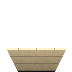
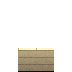
Wall faces meet in clean corners
Front faces were measured perpendicular to each hex edge and clipped to
their own hex, so the faces of conjoined walls met in notches. Each face is
now the hex edge raised straight up by the same height, so neighbouring
faces share one top line, with per-direction shading for clean creases; a
slanted face that turns an inside corner is completed into the neighbouring
wall hex by a new -ext image placed only there. The map preview draws the
same rule in the game's layer order.

Changed region(s): [[0.0833, 0.6667, 0.9444, 1.0]]

diff --git a/production/tools/gen_wall_relief.py b/production/tools/gen_wall_relief.py
@@ -22,9 +22,14 @@ wall. Walls must look like walls and be identified at a glance.
 
 2. Edges (sw/wall-relief-<family>-<dir>.png, utils/hte_terrain.cfg
    SW_WALL_RELIEF), on a wall hex along each edge it shares with floor:
-     s, se, sw  the wall's front face -- a tall, dark vertical face in the
-                family's face material, a bright lip where the top ends and
-                a near-black line at its foot;
+     s, se, sw  the wall's front face: the edge raised straight up by the
+                same height everywhere (2026-10-12: faces measured
+                perpendicular to each edge met in notches at the corners),
+                so the top lines of neighbouring faces join into one line;
+                each direction is shaded a little differently so corners read
+                as creases. A slanted face that turns an inside corner
+                reaches into the neighbouring wall hex: its -ext image is
+                placed only when that neighbour is a wall;
      n, ne, nw  a slightly brighter coping on the top, outlined in near-black.
    Neighbouring walls get no edge between them, so a run of walls is one
    raised mass with a crisp silhouette. (bunker: the castle hexes round a
@@ -179,14 +184,17 @@ FACE = {   # base colour of the vertical face, and its pattern
 }
 
 
-def face_rgb(family: str, t: np.ndarray, seed: int = 5) -> np.ndarray:
-    """Face colour at height t (0 = foot, 1 = top lip)."""
+def face_rgb(family: str, h: np.ndarray, t: np.ndarray, turn: float, seed: int = 5) -> np.ndarray:
+    """Face colour at height h px above the foot (t = h / face height, 0 at
+    the foot, 1 at the lip). turn: brightness of this face's direction."""
     base, pattern = FACE[family]
-    shade = 0.78 + 0.32 * t           # light falls from above: brighter near the top
+    shade = (0.78 + 0.32 * t) * turn     # light falls from above: brighter near the top
+    hi = np.floor(h).astype(int)
     if pattern == "ribs":
         shade = shade * np.where(XS % 6 == 0, 0.7, np.where(XS % 6 == 1, 1.15, 1.0))
     elif pattern == "courses":
-        shade = shade * np.where((YS % 7) == 0, 0.8, 1.0)
+        # Courses run parallel to the foot, so they continue round corners.
+        shade = shade * np.where(hi % 7 == 0, 0.8, 1.0)
     elif pattern == "planks":
         shade = shade * np.where((XS % 9) == 0, 0.65, 1.0)
     else:
@@ -195,23 +203,57 @@ def face_rgb(family: str, t: np.ndarray, seed: int = 5) -> np.ndarray:
     return colour(base, shade)
 
 
+# The foot of each front face: the hex edge as y = f(x) over its x range.
+FOOT = {
+    "s": (18, 54, lambda x: np.full_like(x, 72.0)),
+    "se": (54, 72, lambda x: 72.0 - 2.0 * (x - 54)),
+    "sw": (0, 18, lambda x: 36.0 + 2.0 * x),
+}
+# Each face direction catches the light differently, so where two faces meet
+# at an angle the corner reads as a clean crease.
+TURN = {"s": 1.0, "se": 0.8, "sw": 0.92}
+
+
+def front_face(family: str, direction: str, height: float = 1.0, extend: bool = False) -> Image.Image:
+    """The wall's front face along a south edge: the edge raised straight up
+    by the face height (screen pixels), the same for every face, so the top
+    lines of neighbouring faces join into one line and corners meet cleanly.
+
+    A slanted face (se, sw) reaches past its own hex at the upper end, into
+    the hex to the north-east or north-west. extend=True draws that part too
+    (sw/wall-relief-<family>-<dir>-ext.png, placed only when that neighbour is
+    also a wall: the inside corner where the wall turns); otherwise the face
+    is clipped to its own hex."""
+    face_h = max(5, round(SOUTH["s"] * height))
+    x0, x1, foot = FOOT[direction]
+    xc = XS + 0.5
+    yc = YS + 0.5
+    within = (xc >= x0) & (xc <= x1)
+    y_edge = foot(np.clip(xc, x0, x1))
+    h = y_edge - yc                       # height above the foot
+    region = within & (h > 0) & (h <= face_h)
+    if not extend:
+        region &= hex_mask()
+    t = np.clip(h / face_h, 0, 1)
+    rgb = face_rgb(family, h, t, TURN[direction])
+    lip = within & (h > face_h) & (h <= face_h + 1.8)
+    if not extend:
+        lip &= hex_mask()
+    top = TOPS.get(family, TOPS["bulkhead"])(117)
+    rgb[lip] = np.minimum(255, top[lip] * 1.15 + 10)
+    rgb[region & (h <= 1.2)] = (16, 16, 18)
+    out = np.zeros((S, S, 4))
+    out[..., :3] = rgb
+    out[..., 3] = np.where(region | lip, 255, 0)
+    return Image.fromarray(out.astype(np.uint8), "RGBA")
+
+
 def relief(family: str, direction: str, height: float = 1.0) -> Image.Image:
     inside = hex_mask()
     d = edge_distance(direction)
     out = np.zeros((S, S, 4))
     if direction in SOUTH:
-        depth = max(5, round(SOUTH[direction] * height))
-        t = np.clip(d / depth, 0, 1)
-        rgb = face_rgb(family, t)
-        band = inside & (d >= 0) & (d < depth)
-        foot = inside & (d >= 0) & (d < 1.2)
-        lip = inside & (d >= depth - 0.2) & (d < depth + 1.8)
-        # The lip where the top ends: the top's own colour, a little brighter.
-        top = TOPS.get(family, TOPS["bulkhead"])(117)
-        rgb[lip] = np.minimum(255, top[lip] * 1.15 + 10)
-        rgb[foot] = (16, 16, 18)
-        out[..., :3] = rgb
-        out[..., 3] = np.where(band | lip, 255, 0)
+        return front_face(family, direction, height)
     else:
         # The far edge: the top's own colour, a little brighter where the
         # coping catches the light, outlined in near-black.
@@ -246,6 +288,10 @@ def main() -> int:
         for direction in EDGES:
             relief(family, direction, HEIGHT.get(family, 1.0)).save(
                 OUT / f"wall-relief-{family}-{direction}.png", optimize=True)
+            n += 1
+        for direction in ("se", "sw"):
+            front_face(family, direction, HEIGHT.get(family, 1.0), extend=True).save(
+                OUT / f"wall-relief-{family}-{direction}-ext.png", optimize=True)
             n += 1
     for direction in EDGES:
         shadow(direction).save(OUT / f"wall-shadow-{direction}.png", optimize=True)

diff --git a/production/tools/render_map_preview.py b/production/tools/render_map_preview.py
@@ -67,24 +67,35 @@ def draw_relief(img: Image.Image, grid: list[list[str]]) -> None:
         if 0 <= y < len(grid) and 0 <= x < len(grid[y]):
             return grid[y][x].partition("^")[0]
         return None
+    # The game draws all shadows (layer -450), then all faces (-400), then the
+    # inside-corner face extensions (-399), each layer top to bottom.
+    draws = []
     for y, row in enumerate(grid):
         for x in range(len(row)):
             here = base(x, y)
             pos = (54 * x, 72 * y + (36 if x % 2 else 0))
-            for d, (nx, ny) in neighbours(x, y).items():
+            nb = neighbours(x, y)
+            for d, (nx, ny) in nb.items():
                 there = base(nx, ny)
                 if there is None:
                     continue
-                name = None
+                name, layer = None, 0
                 if here in WALLS and there not in WALLS and not there.startswith("X"):
-                    name = f"wall-relief-{WALLS[here]}-{d}"
+                    name, layer = f"wall-relief-{WALLS[here]}-{d}", -400
+                    if d in ("se", "sw"):
+                        corner = base(*nb["ne" if d == "se" else "nw"])
+                        if corner in WALLS:
+                            draws.append((-399, pos[1], pos[0], f"wall-relief-{WALLS[here]}-{d}-ext"))
                 elif here == "Qcb" and there not in ("Qcb", "Qkb"):
-                    name = f"wall-relief-bunker-{d}"
+                    name, layer = f"wall-relief-bunker-{d}", -400
                 elif here not in WALLS and not here.startswith("X") and there in WALLS:
-                    name = f"wall-shadow-{d}"
-                t = tile(f"sw/{name}") if name else None
-                if t is not None:
-                    img.alpha_composite(t, pos)
+                    name, layer = f"wall-shadow-{d}", -450
+                if name:
+                    draws.append((layer, pos[1], pos[0], name))
+    for _layer, py, px, name in sorted(draws):
+        t = tile(f"sw/{name}")
+        if t is not None:
+            img.alpha_composite(t, (px, py))
 
 
 def render(map_path: Path, symbols: dict[str, str], scale: float) -> Image.Image:

diff --git a/docs/ART_CREDITS.md b/docs/ART_CREDITS.md
@@ -417,6 +417,12 @@ starship bulkhead) and the bunker parapet:
   material (steel ribs, block courses, rough stone, planks), lit from above,
   with a lip in the top's colour and a near-black line at its foot.
 - **Far edges**: a slightly brighter coping, outlined in near-black.
+- **Clean corners** (owner follow-up, same day): each front face is the hex
+  edge raised straight up by the same height, so the top lines of
+  neighbouring faces join into one line wherever walls meet; each face
+  direction is shaded a little differently so corners read as creases. A
+  slanted face that turns an inside corner reaches into the neighbouring wall
+  hex; its `-ext` image is placed only there (utils/hte_terrain.cfg).
 - **Shadows** on the floor below a wall are longer and darker.
 
 The Codex tile-variety jobs for wall tops and the old coded bulkhead were
